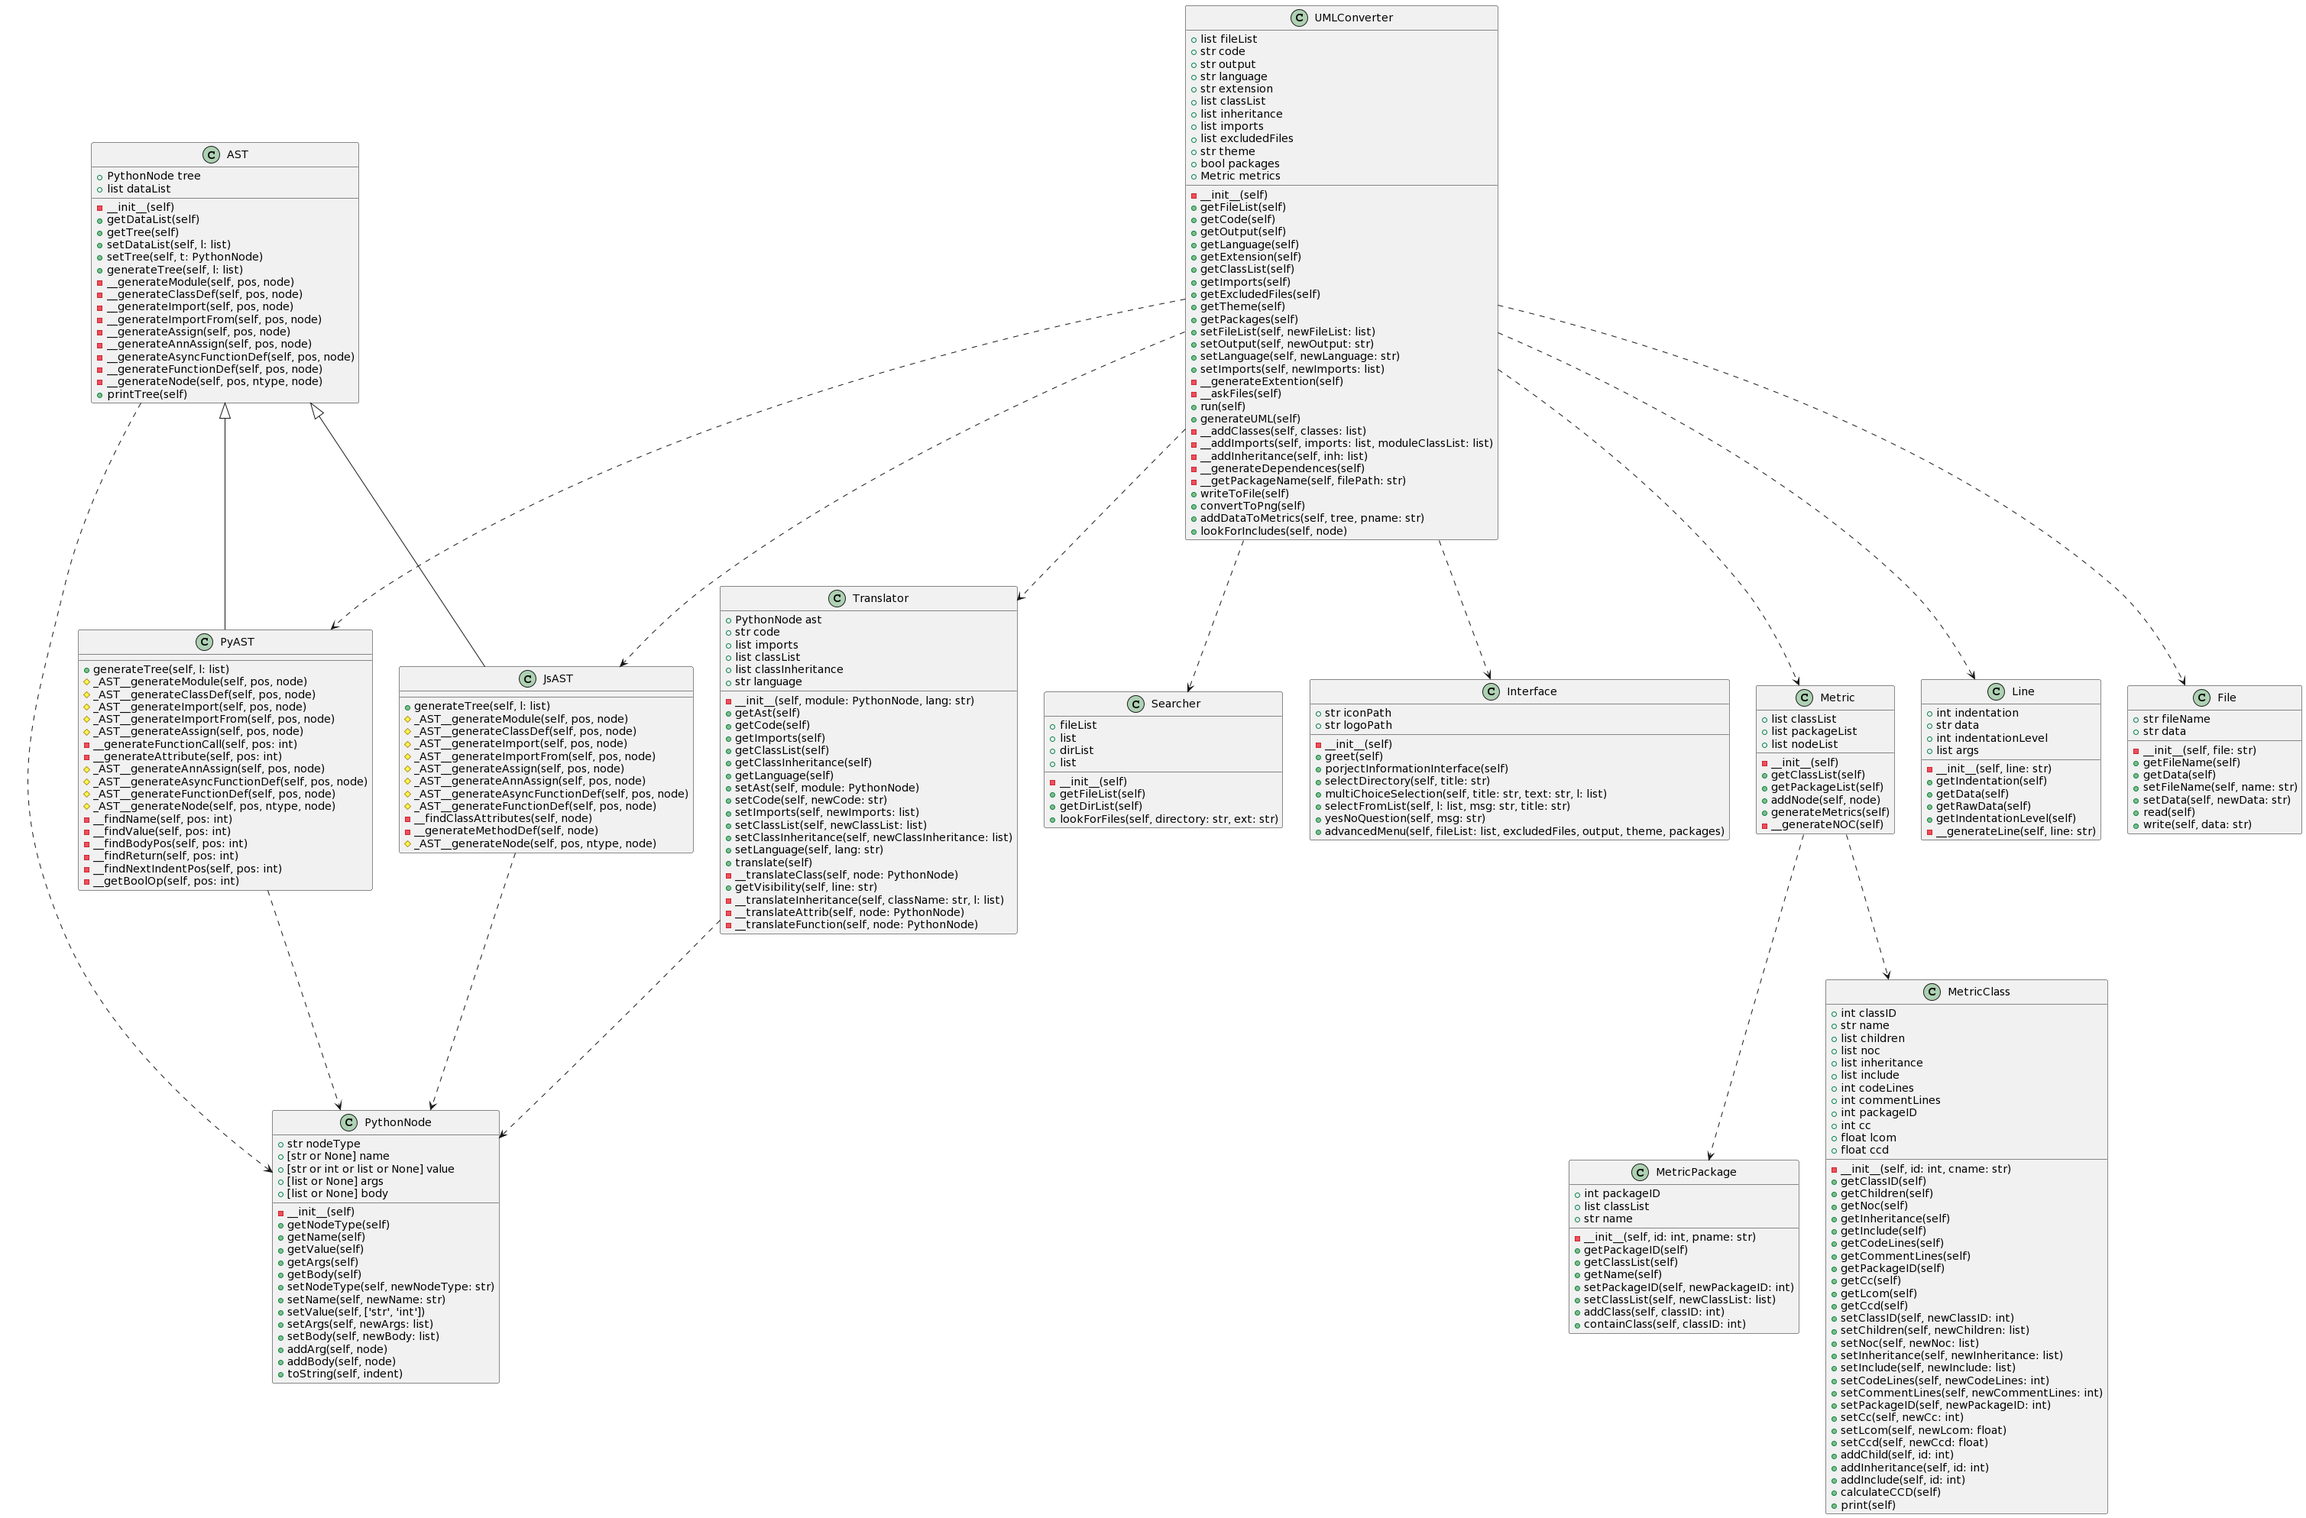
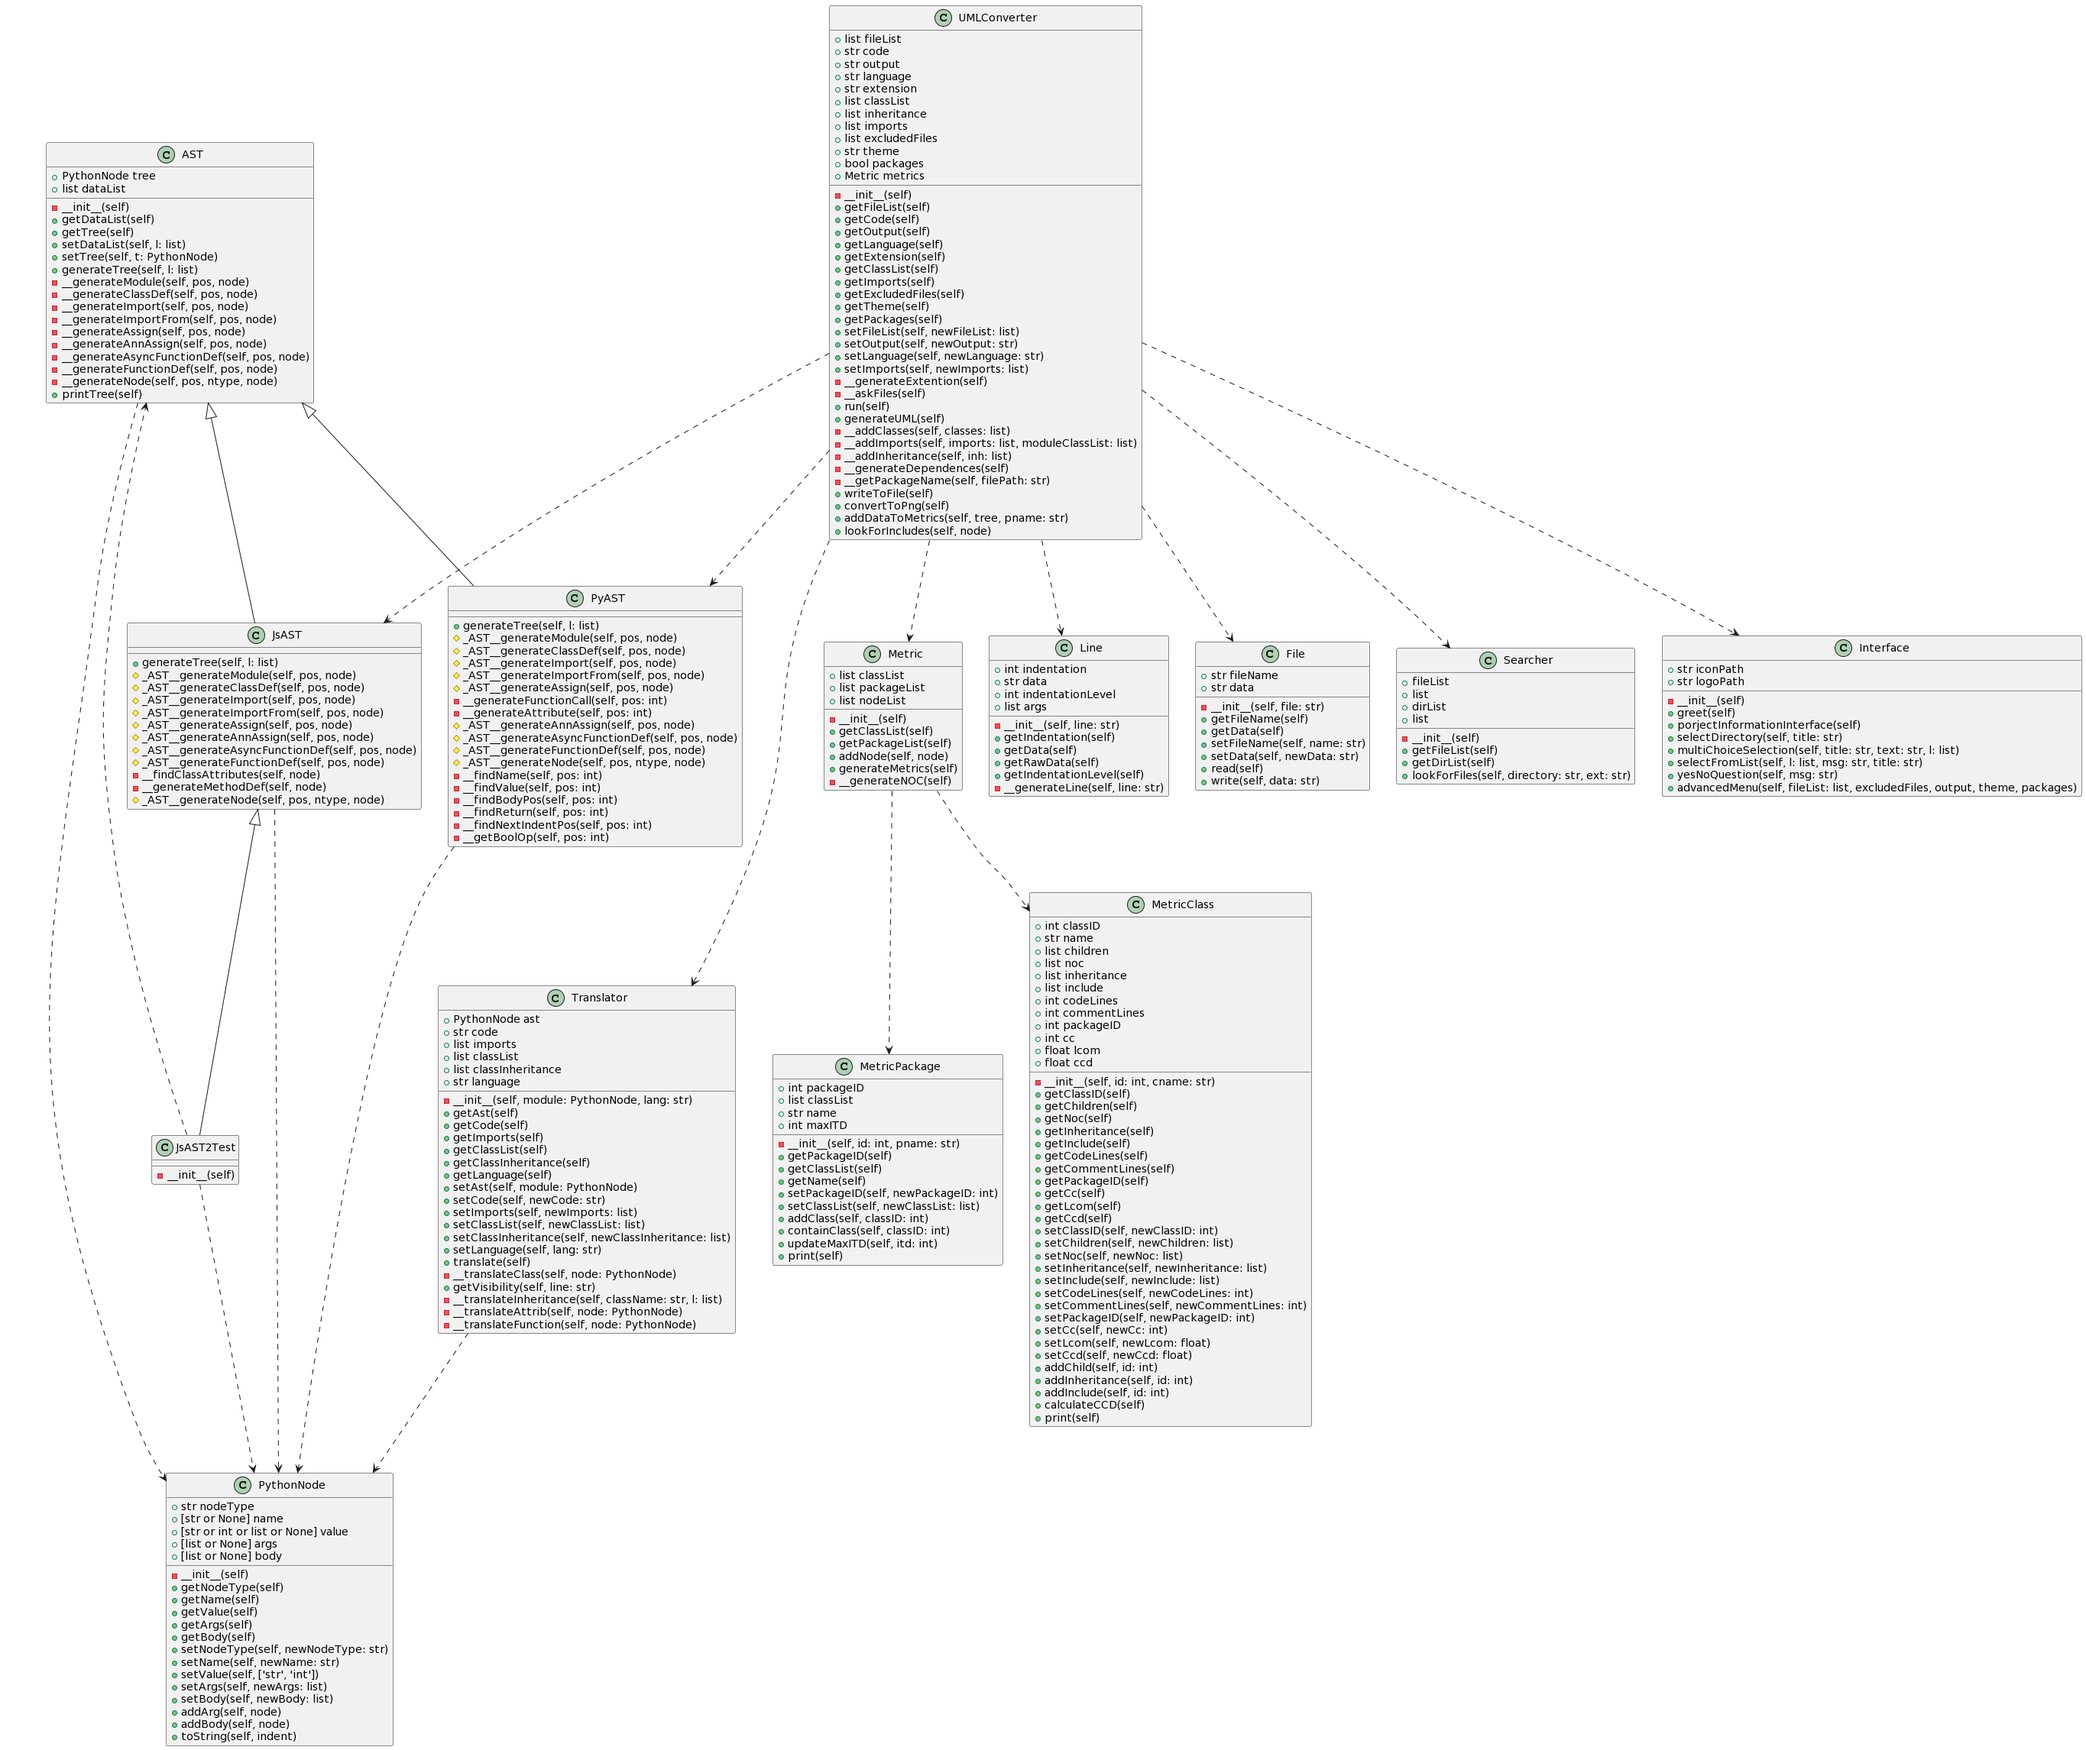
ITD metrics (Inheritance tree depth for packages)

diff --git a/app/modules/metric_module/metric.py b/app/modules/metric_module/metric.py
@@ -7,7 +7,7 @@
 #   @Email:              adrianepi@gmail.com
 #   @GitHub:             https://github.com/AdrianEpi
 #   @Last Modified by:   Adrian Epifanio
-#   @Last Modified time: 2023-02-06 14:04:43
+#   @Last Modified time: 2023-02-06 14:42:13
 #   @Description:        ...
 
 from app.modules.metric_module.metricClass import MetricClass
@@ -85,11 +85,14 @@ class Metric:
 
 		self.__generateNOC()
 
+
+
 	def __generateNOC(self):
 		for i in range(len(self.classList)):
 			finish = False
 			noc = self.classList[i].getChildren()
 			start = 0
+			itd = 1
 			while finish == False:
 				nocSize = len(noc)
 				finish = True
@@ -98,7 +101,14 @@ class Metric:
 						if k not in noc:
 							finish = False
 							noc.append(k)
+				if finish == False:
+					itd += 1
 				start = nocSize
+			if len(noc) > 0:
+				for j in range(len(self.packageList)):
+					if self.classList[i].getPackageID() == self.packageList[j].getPackageID():
+						self.packageList[j].updateMaxITD(itd)
+
 			self.classList[i].setNoc(noc)
 
 

diff --git a/app/modules/metric_module/metricPackage.py b/app/modules/metric_module/metricPackage.py
@@ -7,7 +7,7 @@
 #   @Email:              adrianepi@gmail.com
 #   @GitHub:             https://github.com/AdrianEpi
 #   @Last Modified by:   Adrian Epifanio
-#   @Last Modified time: 2023-02-03 22:36:51
+#   @Last Modified time: 2023-02-06 14:37:08
 #   @Description:        ...
 
 
@@ -16,11 +16,13 @@ class MetricPackage:
 	packageID: int
 	classList: list
 	name: str
+	maxITD: int # Maximum inheritance tree depth
 
 	def __init__(self, id: int, pname: str):
 		self.packageID = id
 		self.classList = []
 		self.name = pname
+		self.maxITD = 0
 
 
 	def getPackageID(self) -> int:
@@ -52,3 +54,17 @@ class MetricPackage:
 		if (classID in self.classList):
 			return True
 		return False
+
+
+	def updateMaxITD(self, itd: int):
+		if itd > self.maxITD:
+			self.maxITD = itd
+
+
+	def print(self):
+		s = ""
+		s += "\n\n\n\t PackageID " + str(self.packageID)
+		s += "\n\t\tName: " + self.name
+		s += "\n\t\tClass List: " + str(self.classList)
+		s += "\n\t\tMaximum ITD: " + str(self.maxITD)
+		print(s)

diff --git a/app/modules/uml_module/UMLConverter.py b/app/modules/uml_module/UMLConverter.py
@@ -7,7 +7,7 @@
 #   @Email:              adrianepi@gmail.com
 #   @GitHub:             https://github.com/AdrianEpi
 #   @Last Modified by:   Adrian Epifanio
-#   @Last Modified time: 2023-02-06 14:03:34
+#   @Last Modified time: 2023-02-06 14:18:27
 #   @Description:        This file describes the UMLConverteer main class
 
 from app.modules.uml_module.translator import Translator
@@ -256,6 +256,8 @@ class UMLConverter:
 		self.convertToPng()
 		self.metrics.generateMetrics()
 		for i in self.metrics.getClassList():
+			i.print()
+		for i in self.metrics.getPackageList():
 			i.print()
 
 

diff --git a/app/modules/ast_module/jsAST.py b/app/modules/ast_module/jsAST.py
@@ -7,7 +7,7 @@
 #   @Email:              adrianepi@gmail.com
 #   @GitHub:             https://github.com/AdrianEpi
 #   @Last Modified by:   Adrian Epifanio
-#   @Last Modified time: 2023-02-06 14:10:15
+#   @Last Modified time: 2023-02-06 14:43:23
 #   @Description:        This file describes a javaScript ast class 
 
 from app.modules.ast_module.pythonNode import PythonNode
@@ -290,3 +290,10 @@ class JsAST(AST):
 			return self.__generateMethodDef(node = node)
 		else:
 			return None # In case non necessary node
+
+
+# class JsAST2Test(JsAST):
+# 	def __init__(self):
+# 		pass
+
+# 	
